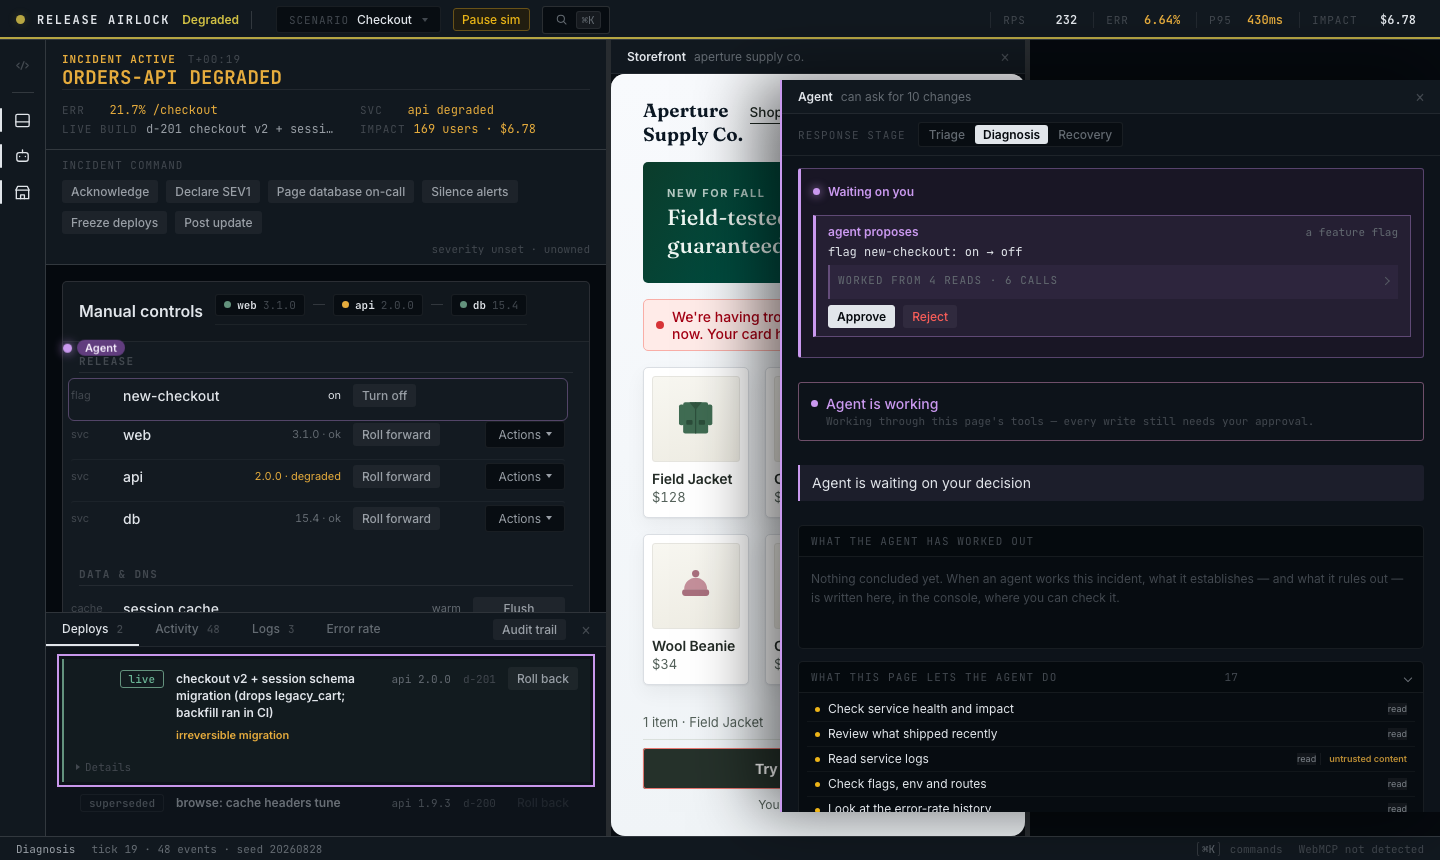
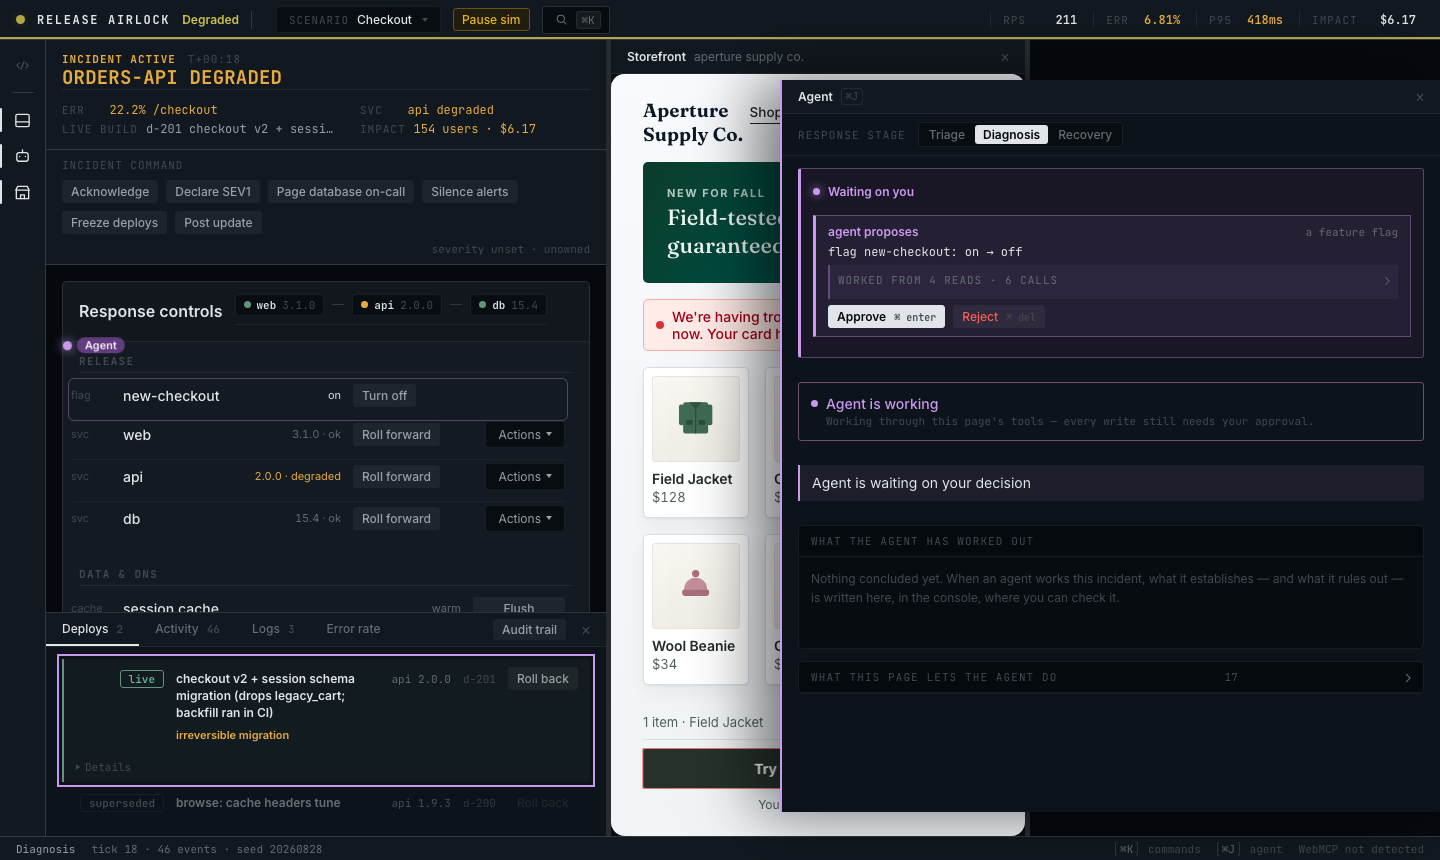
seven from the live review: the dock stops shouting, and gets a keyboard
1. The review widget stopped leaking "Sim" — this project's word for its own
   engine, which nobody reviewing the console agreed to learn. Its title used
   to ellipsis in a 486px dock, cutting off the one line that says what you
   are looking at; it wraps.
2. The capability ladder is OPT-IN (Sid: "useful for sure but needs to be
   opt-in"). 752px of dock back. The COUNT stays on the summary, because that
   the surface is bounded — and by how much — is the reassuring half and had
   to survive the collapse.
3. The scene links say what they are ("other things to look at") instead of
   sitting there as seven bare lowercase words, and each carries its scene's
   sentence as its accessible name.
4. "Manual controls" -> "Response controls", pairing with the "Response stage"
   the dock already shows.
5. ⌘J brings the agent up and puts it away, advertised in the status bar AND
   beside the dock's own dismiss control. ⌘ enter / ⌘ del decide the ask that
   is waiting — chords, never bare keys, because a mis-hit that approves a
   production write would be the console undoing its own thesis. On a two-key
   card the chord takes you to the key and STOPS.
6. "can ask for 6 changes" is gone: a tool count wearing a sentence, next to
   the ladder that already carries that number.
7. The WebMCP paragraph in the presence card is gone — the status bar says
   the same fact in a quarter of the space.

TEST-FILE DIFF, and one line of it is not an addition: the gate that waits for
[…]

diff --git a/src/main.ts b/src/main.ts
@@ -175,7 +175,7 @@ app.innerHTML = `
         <div id="control-deck" data-testid="control-deck">
           <section class="zone" id="zone-controls" data-testid="zone-controls">
             <div class="zone-head">
-              <h2 class="zone-title">Manual controls</h2>
+              <h2 class="zone-title">Response controls</h2>
               <div id="topology" data-testid="topology"></div>
             </div>
             <div class="ctl-groups">
@@ -358,9 +358,9 @@ app.innerHTML = `
     <section class="wb-dock" id="tool-rail" aria-label="Agent">
       <header class="dock-head">
         <span class="dock-title">Agent</span>
-        <span class="pane-sub" id="rail-sub">standing by</span>
+        <kbd class="dock-kbd">⌘J</kbd>
         <button type="button" class="dock-close" data-toggle="rail" data-min="rail" data-testid="min-rail"
-                aria-label="Close the agent panel" title="Close">&times;</button>
+                aria-label="Hide the agent panel" title="Hide  ⌘J">&times;</button>
       </header>
       <div class="rail-modes">
         <span class="rail-modes-label">Response stage</span>
@@ -389,7 +389,6 @@ app.innerHTML = `
           <span class="ap-dot" aria-hidden="true"></span>
           <span class="ap-text">
             <span id="agent-conn" data-testid="agent-conn" data-state="off">No agent connected</span>
-            <span class="ap-sub ap-sub-off">WebMCP on this page: <span id="webmcp-status">…</span>. Assistance is optional — every control in this console works without one.</span>
             <span class="ap-sub ap-sub-on">Working through this page's tools — every write still needs your approval.</span>
           </span>
         </div>
@@ -409,13 +408,12 @@ app.innerHTML = `
           </p>
         </section>
 
-        <!-- 27 rows of capability is REFERENCE, not glance. It is collapsible
-             so an operator mid-decision can put it away — but it stays OPEN by
-             default, because "what this page lets the agent do" is the single
-             most legible thing about the mechanism and hiding it by default
-             would be hiding the point. Density is bought back in the type,
-             not by concealing the surface. -->
-        <details class="ladder" id="tool-surface" open aria-label="What the agent can reach">
+        <!-- 27 rows of capability is REFERENCE, not glance, and it was eating
+             the dock by default (Sid, 2026-09-01: "useful for sure but needs to
+             be opt-in"). The count stays on the summary, so the fact that the
+             surface is bounded — and by how much — is still visible closed;
+             the rows themselves are one click away. -->
+        <details class="ladder" id="tool-surface" aria-label="What the agent can reach">
           <summary class="ladder-head">
             <span class="ladder-title">What this page lets the agent do</span>
             <span class="ts-count" id="tool-count"></span>
@@ -433,6 +431,7 @@ app.innerHTML = `
       <span class="wbs-item" id="sim-status" data-testid="sim-status">seeded · paused</span>
       <span class="spacer"></span>
       <span class="wbs-item wbs-hint"><kbd>⌘K</kbd> commands</span>
+      <span class="wbs-item wbs-hint"><kbd>⌘J</kbd> agent</span>
       <span class="wbs-item" id="wbs-webmcp">WebMCP …</span>
     </footer>
   </div>
@@ -457,9 +456,6 @@ document.querySelector('#health-demo')?.addEventListener('click', (e) => {
   if (btn) setHealth(btn.dataset.healthSet as Health);
 });
 
-document.querySelector('#webmcp-status')!.textContent = hasWebMCP()
-  ? 'detected'
-  : 'not detected (plain browser — page fully usable without an agent)';
 document.querySelector('#wbs-webmcp')!.textContent = hasWebMCP()
   ? 'WebMCP ready'
   : 'WebMCP not detected';
@@ -1568,8 +1564,8 @@ function addApprovalCard(e: Event): void {
         : ''
     }
     <div class="ap-actions">
-      <button type="button" class="ctl-btn primary ap-approve" data-act="approve" data-seq="${e.seq}" data-testid="approve-${e.seq}" ${dualKey ? 'disabled' : ''}>Approve</button>
-      <button type="button" class="ctl-btn ap-reject" data-act="reject" data-seq="${e.seq}" data-testid="reject-${e.seq}">Reject</button>
+      <button type="button" class="ctl-btn primary ap-approve" data-act="approve" data-seq="${e.seq}" data-testid="approve-${e.seq}" ${dualKey ? 'disabled' : ''}>Approve<kbd class="ap-kbd">⌘ enter</kbd></button>
+      <button type="button" class="ctl-btn ap-reject" data-act="reject" data-seq="${e.seq}" data-testid="reject-${e.seq}">Reject<kbd class="ap-kbd">⌘ del</kbd></button>
     </div>
   `;
   card.querySelector('.ap-diff')!.textContent = d.diffSummary;
@@ -3355,7 +3351,47 @@ function runPalette(i: number): void {
   send({ type: 'act', tool: c.tool, input: c.input });
 }
 
+/**
+ * THE AGENT IS A REGION, SO IT GETS A REGION'S SHORTCUT.
+ *
+ * ⌘J brings the agent up or puts it away — that is all it does. It is the
+ * sibling of ⌘K and is advertised next to it in the status bar, because a
+ * shortcut nobody can see is a shortcut nobody has.
+ *
+ * ⌘⏎ / ⌘⌫ decide the ask that is waiting. Both are CHORDS on purpose: the
+ * gate is the product, and a bare key that approves a production write on a
+ * mis-hit would be the console undoing its own thesis. They also refuse to
+ * bypass the second key — on a dual-key card the chord takes you to the key
+ * and stops, which is the same answer the button gives.
+ */
+function liveDecision(): { card: HTMLElement } | undefined {
+  return [...pendingCards.values()][0];
+}
+
 document.addEventListener('keydown', (e) => {
+  if ((e.metaKey || e.ctrlKey) && e.key.toLowerCase() === 'j') {
+    e.preventDefault();
+    setRegion('rail', !regionOpen('rail'));
+    return;
+  }
+  if ((e.metaKey || e.ctrlKey) && (e.key === 'Enter' || e.key === 'Backspace')) {
+    const entry = liveDecision();
+    if (!entry) return;
+    e.preventDefault();
+    if (!regionOpen('rail')) setRegion('rail', true);
+    const btn = entry.card.querySelector<HTMLButtonElement>(
+      e.key === 'Enter' ? '.ap-approve' : '.ap-reject'
+    );
+    if (!btn) return;
+    if (btn.disabled) {
+      // the key is not engaged: show them the thing that is stopping them
+      entry.card.scrollIntoView({ block: 'nearest' });
+      entry.card.querySelector<HTMLElement>('.ap-key-toggle')?.focus();
+      return;
+    }
+    btn.click();
+    return;
+  }
   if ((e.metaKey || e.ctrlKey) && e.key.toLowerCase() === 'k') {
     e.preventDefault();
     paletteEl.hidden ? openPalette() : closePalette();
@@ -3424,11 +3460,6 @@ function renderCapability(tools: AirlockTools): void {
   const fc = document.querySelector<HTMLElement>('#finding-count');
   const n = document.querySelectorAll('#agent-findings .finding').length;
   if (fc) fc.textContent = n ? String(n) : '';
-  const sub = document.querySelector<HTMLElement>('#rail-sub');
-  if (sub) {
-    sub.textContent =
-      writes.length === 0 ? 'can look, cannot change' : `can ask for ${writes.length} changes`;
-  }
 }
 
 /**

diff --git a/src/review.ts b/src/review.ts
@@ -235,7 +235,9 @@ function banner(scene: Scene, state: 'running' | 'ready' | 'failed', detail = ''
         <span class="rv-state"></span>
       </div>
       <ul class="rv-try"></ul>
-      <nav class="rv-scenes" aria-label="Review scenes"></nav>
+      <nav class="rv-scenes" aria-label="Review scenes">
+        <span class="rv-scenes-label">Other things to look at</span>
+      </nav>
     `;
     // ONE reserved area for anything agent- or review-related: this belongs
     // inside the agent dock, at the top of it, not floating in a corner
@@ -250,6 +252,7 @@ function banner(scene: Scene, state: 'running' | 'ready' | 'failed', detail = ''
       a.textContent = sc.id;
       a.dataset.testid = `review-scene-${sc.id}`;
       a.title = sc.title;
+      a.setAttribute('aria-label', `${sc.id} — ${sc.title}`);
       if (sc.id === scene.id) a.setAttribute('aria-current', 'true');
       nav.append(a);
     }
@@ -298,7 +301,7 @@ async function watchForYourDecision(
   const list = el.querySelector<HTMLElement>('.rv-try')!;
   list.innerHTML = '';
   const li = document.createElement('li');
-  li.textContent = 'Sim resumed so you can see what your decision did.';
+  li.textContent = 'The console is moving again — watch what your decision did.';
   list.append(li);
 }
 
@@ -319,7 +322,7 @@ export async function run(opts: {
   const { air, isRunning, toggleRun } = opts;
   const id = new URLSearchParams(location.search).get('review') ?? '';
   const scene = SCENES.find((s) => s.id === id) ?? SCENES[0]!;
-  banner(scene, 'running', 'starting the sim');
+  banner(scene, 'running', 'setting the scene');
 
   // Each scene names the scenario it needs. Re-seeding here rather than at
   // boot keeps main.ts from having to know anything about scenes.

diff --git a/src/styles/review.css b/src/styles/review.css
@@ -21,7 +21,7 @@
   font-size: var(--text-2xs);
   color: var(--ink-dim);
 }
-#review-banner .rv-head { display: flex; align-items: baseline; gap: var(--sp-2); min-width: 0; }
+#review-banner .rv-head { display: flex; flex-wrap: wrap; align-items: baseline; gap: 2px var(--sp-2); min-width: 0; }
 #review-banner .rv-tag {
   flex: none;
   padding: 0 5px;
@@ -31,15 +31,15 @@
   text-transform: uppercase;
   letter-spacing: var(--tracking-label);
 }
+/* it used to ellipsis, which in a 486px dock meant the scene's own name was
+   cut off — the one line telling you what you are looking at. It wraps. */
 #review-banner .rv-title {
   color: var(--ink);
   font-family: var(--font-prose);
   font-size: var(--text-xs);
   font-weight: 600;
   min-width: 0;
-  overflow: hidden;
-  text-overflow: ellipsis;
-  white-space: nowrap;
+  flex: 1 1 60%;
 }
 #review-banner .rv-state {
   margin-left: auto;
@@ -72,7 +72,18 @@
   background: oklch(70% 0.16 95);
 }
 
-#review-banner .rv-scenes { display: flex; flex-wrap: wrap; gap: 1px; }
+/* Seven bare lowercase words in a row read as debris — "I don't know what
+   they are meant to do". The row says what it is, and each link carries its
+   scene's own sentence as its accessible name. */
+#review-banner .rv-scenes { display: flex; flex-wrap: wrap; align-items: baseline; gap: 2px; }
+#review-banner .rv-scenes-label {
+  flex-basis: 100%;
+  color: var(--ink-ghost);
+  font-size: var(--text-2xs);
+  letter-spacing: var(--tracking-label);
+  text-transform: uppercase;
+  margin-bottom: 2px;
+}
 #review-banner .rv-scene {
   padding: 1px var(--sp-2);
   border: 1px solid var(--line);

diff --git a/src/styles/shell.css b/src/styles/shell.css
@@ -1183,6 +1183,22 @@ body {
 .ap-diff { color: var(--ink); line-height: 1.5; }
 .ap-actions { display: flex; gap: var(--sp-2); margin-top: 2px; }
 .ap-actions .ctl-btn { margin-left: 0; }
+/* the close control used to be pushed right by `.pane-sub`'s margin. The
+   agent dock no longer has a subtitle, so it carries the push itself. */
+.dock-head .dock-close { margin-left: auto; }
+/* the region's shortcut sits beside the control that does the same thing */
+.dock-kbd {
+  font-family: var(--font-instrument); font-size: 10px;
+  border: 1px solid var(--line); border-radius: 3px;
+  padding: 1px 4px; color: var(--ink-ghost);
+}
+/* the chord rides on the button it fires, so the shortcut is discoverable
+   at the moment it is useful rather than in a help screen nobody opens */
+.ap-kbd {
+  margin-left: var(--sp-2);
+  font-family: var(--font-instrument); font-size: 10px;
+  color: var(--ink-ghost);
+}
 .ap-approve { color: var(--good); }
 .ap-approve:hover:not(:disabled) { border-color: var(--good); background: oklch(75% 0.13 160 / 0.08); }
 .ap-reject { color: var(--bad); }
